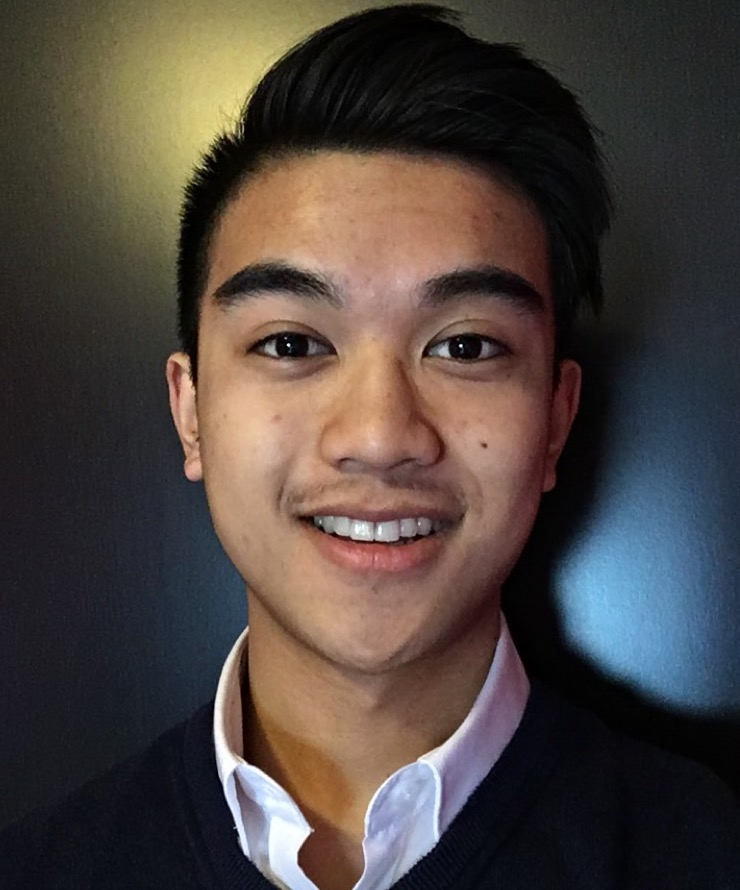
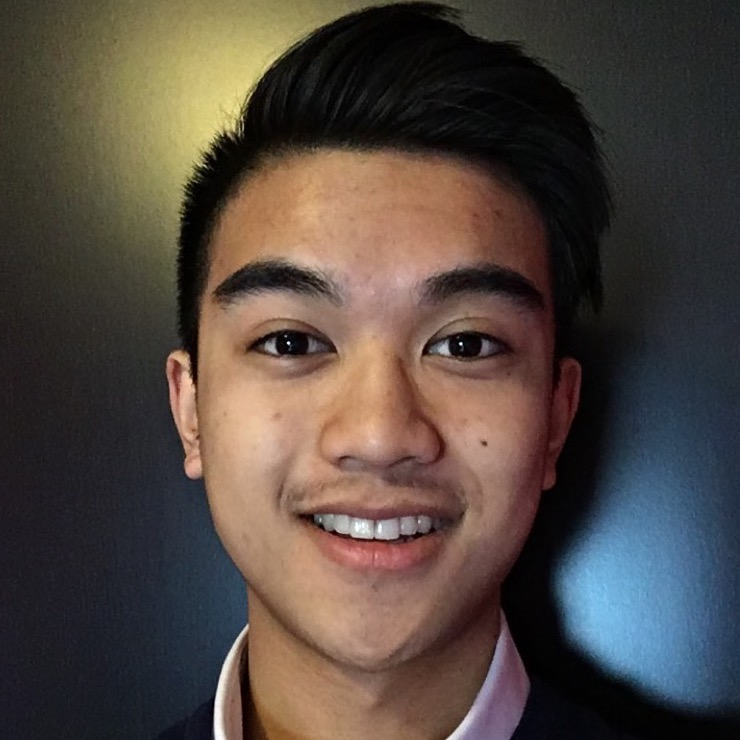
more croppin in jpg

diff --git a/about/index.html b/about/index.html
@@ -97,7 +97,7 @@
                 </div><!-- he view -->
             </div><!-- he wrap -->
             <h4>Philipp Zirpins</h4>
-            <h5 class="ctitle">Supreme Leader</h5>
+            <h5 class="ctitle">Leader</h5>
             <p>Lorem Ipsum is simply dummy text of the printing and typesetting industry.</p>
             <div class="hline"></div>
         </div><! --/col-lg-3 -->
